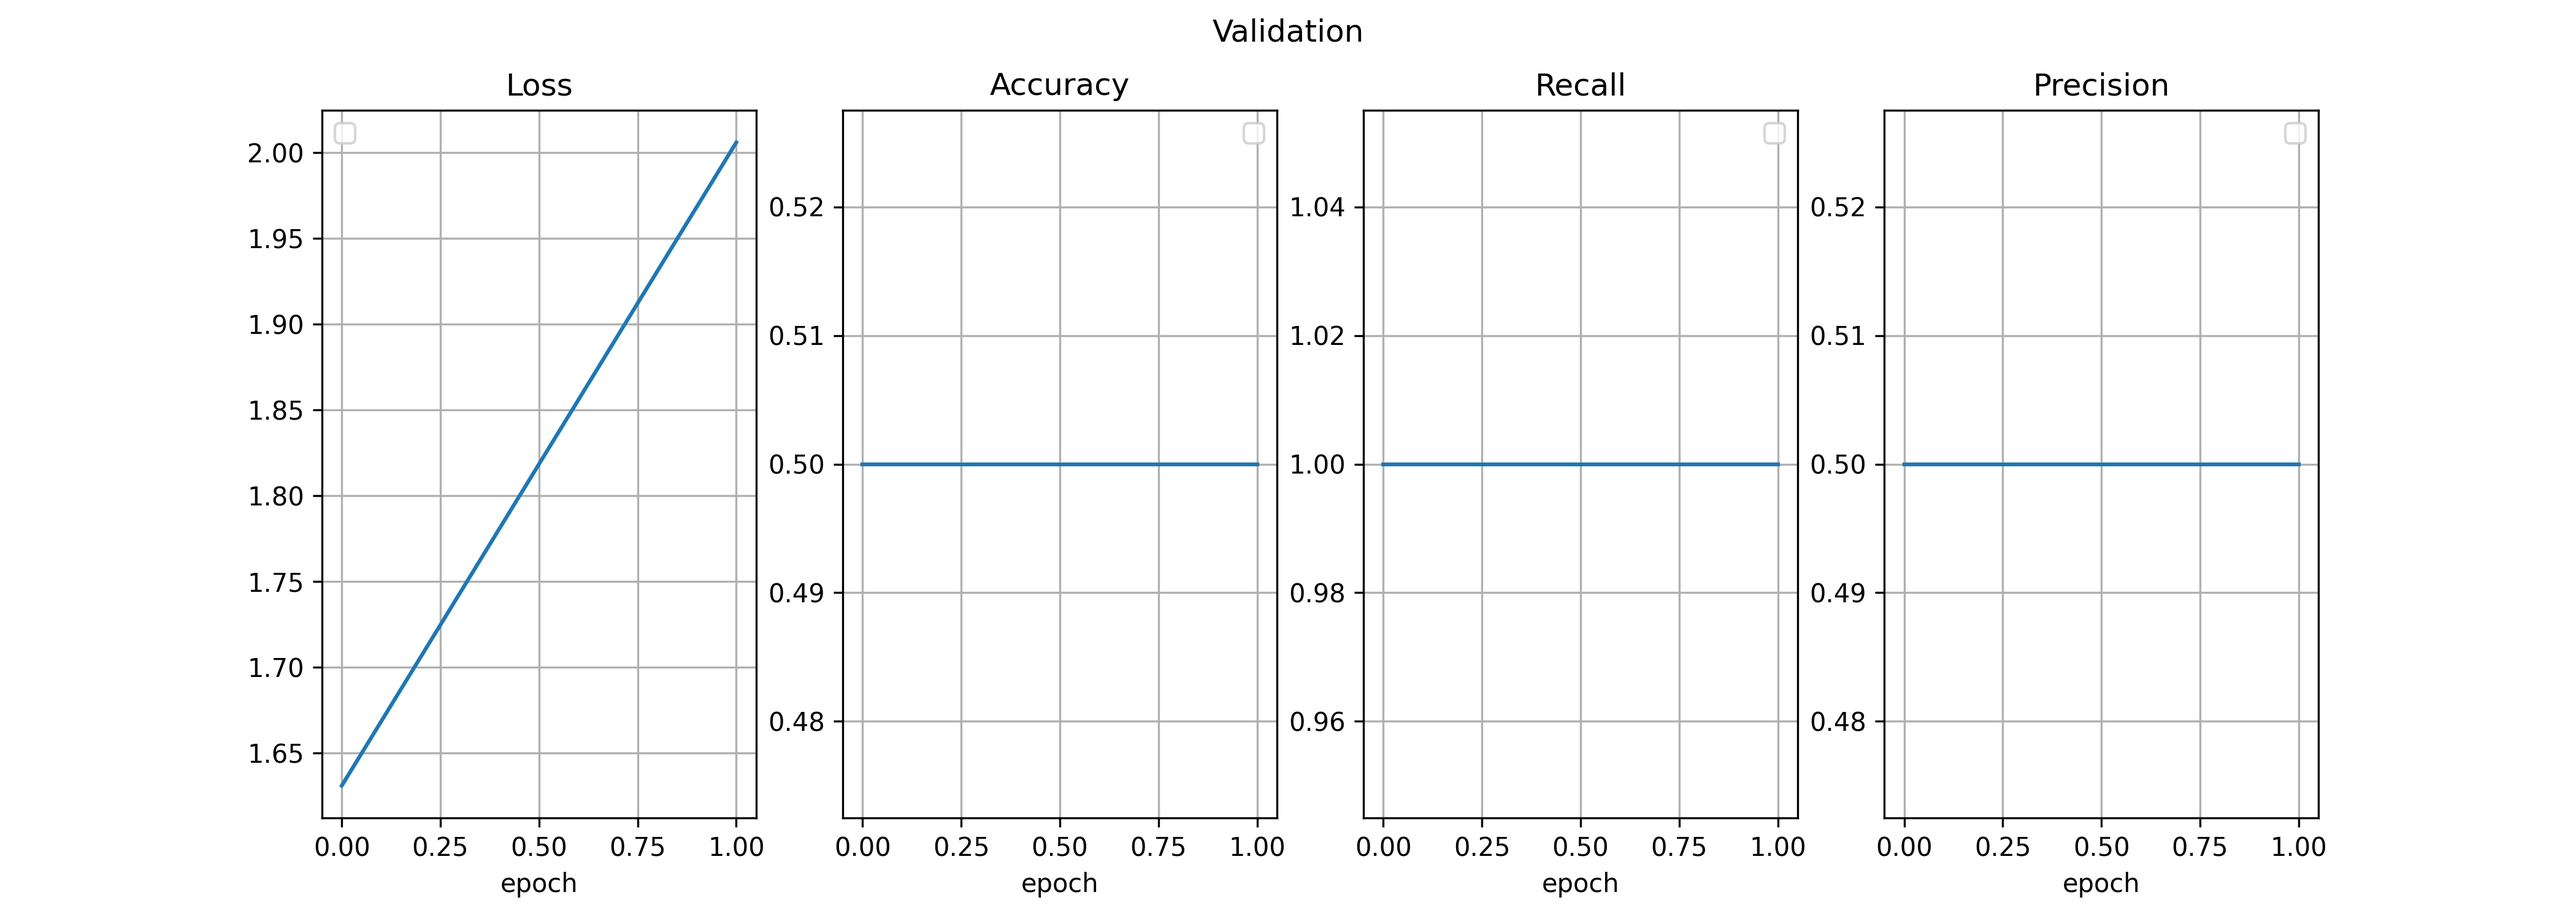
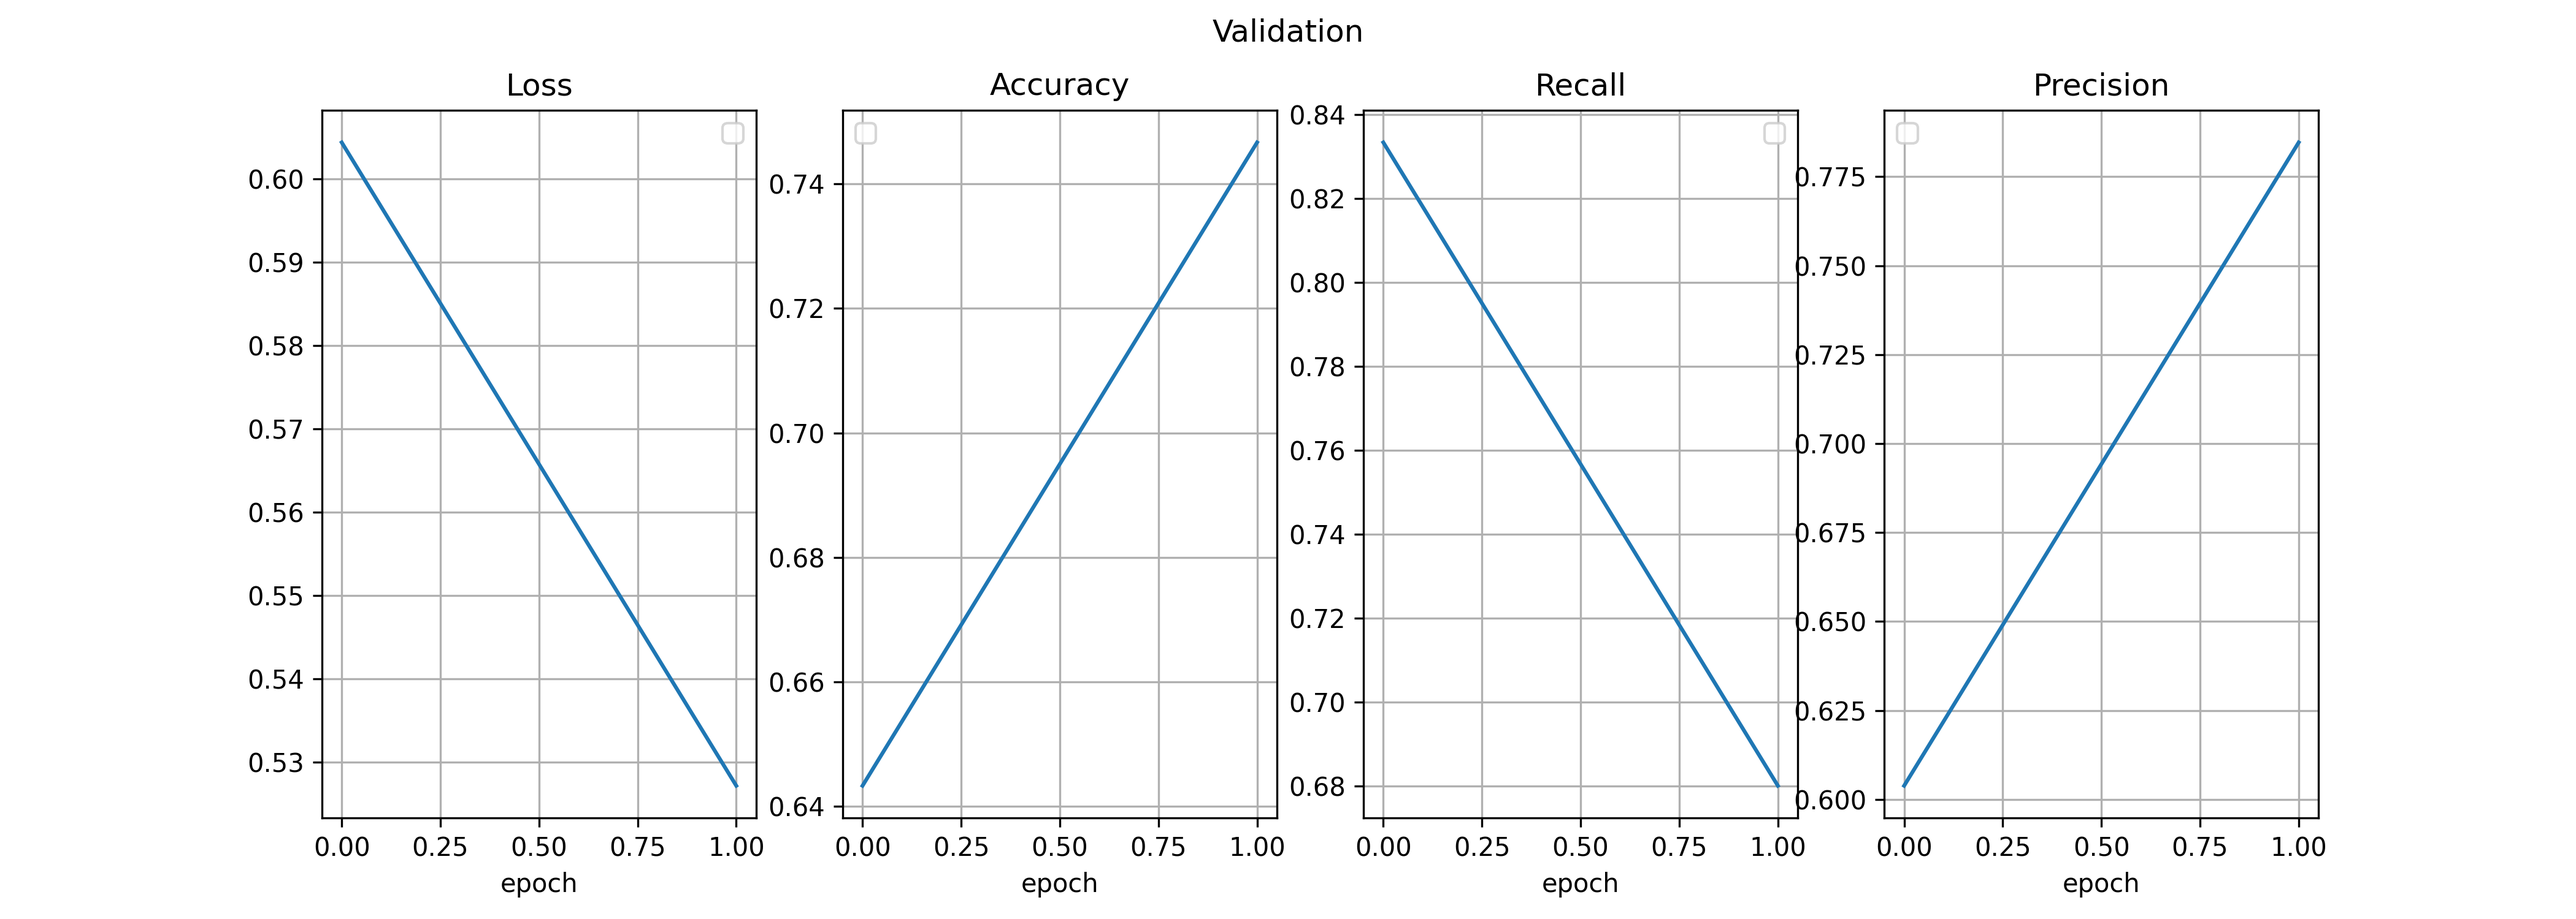
MobileNetV2

diff --git a/lab1/model.py b/lab1/model.py
@@ -3,81 +3,84 @@ import torch.nn as nn
 import torch.nn.init as init
 
 
+import torch
+import torch.nn as nn
+import torch.nn.functional as F
+
+class InvertedResidual(nn.Module):
+    def __init__(self, in_channels, out_channels, stride, expand_ratio):
+        super(InvertedResidual, self).__init__()
+        hidden_dim = in_channels * expand_ratio
+        self.use_residual = stride == 1 and in_channels == out_channels
+        
+        self.conv = nn.Sequential(
+            nn.Conv2d(in_channels, hidden_dim, kernel_size=1, bias=False),
+            nn.BatchNorm2d(hidden_dim),
+            nn.ReLU6(inplace=True),
+            
+            nn.Conv2d(hidden_dim, hidden_dim, kernel_size=3, stride=stride, padding=1, groups=hidden_dim, bias=False),
+            nn.BatchNorm2d(hidden_dim),
+            nn.ReLU6(inplace=True),
+
+            nn.Conv2d(hidden_dim, out_channels, kernel_size=1, bias=False),
+            nn.BatchNorm2d(out_channels),
+        )
+    
+    def forward(self, x):
+        if self.use_residual:
+            return x + self.conv(x)
+        else:
+            return self.conv(x)
+
 class MobNet(nn.Module):
-	def __init__(self, num_classes=1):
-		super(MobNet, self).__init__()
-		self.conv_3x3x3x32_s2 = nn.Conv2d(in_channels=3, out_channels=32, kernel_size=3, stride=2, padding=1)
+    def __init__(self, num_classes=1):
+        super(MobNet, self).__init__()
+        
+        # Конфигурация блоков: (in_channels, out_channels, stride, expand_ratio, repeat)
+        config = [
+            (32, 16, 1, 1, 1),
+            (16, 24, 2, 6, 2),
+            (24, 32, 2, 6, 3),
+            (32, 64, 2, 6, 4),
+            (64, 96, 1, 6, 3),
+            (96, 160, 2, 6, 3),
+            (160, 320, 1, 6, 1),
+        ]
+        
+        self.conv1 = nn.Sequential(
+            nn.Conv2d(3, 32, kernel_size=3, stride=2, padding=1, bias=False),
+            nn.BatchNorm2d(32),
+            nn.ReLU6(inplace=True)
+        )
+        
+        self.blocks = self._make_layers(config)
+        
+        self.conv2 = nn.Sequential(
+            nn.Conv2d(320, 1280, kernel_size=1, bias=False),
+            nn.BatchNorm2d(1280),
+            nn.ReLU6(inplace=True)
+        )
 
-		self.conv_1x1x64x128 = nn.Conv2d(in_channels=64, out_channels=128, kernel_size=1, stride=1)
-		self.conv_1x1x32x64 = nn.Conv2d(in_channels=32, out_channels=64, kernel_size=1, stride=1)
-		self.conv_1x1x128x128 = nn.Conv2d(in_channels=128, out_channels=128, kernel_size=1,stride=1)
-		self.conv_1x1x128x256 = nn.Conv2d(in_channels=128, out_channels=256, kernel_size=1, stride=1)
-		self.conv_1x1x256x256 = nn.Conv2d(in_channels=256, out_channels=256, kernel_size=1, stride=1)
-		self.conv_1x1x256x512 = nn.Conv2d(in_channels=256, out_channels=512, kernel_size=1, stride=1)
-		self.conv_1x1x512x512 = nn.Conv2d(in_channels=512, out_channels=512, kernel_size=1, stride=1)
-		self.conv_1x1x512x1024 = nn.Conv2d(in_channels=512, out_channels=1024, kernel_size=1, stride=1)
-		self.conv_1x1x1024x1024 = nn.Conv2d(in_channels=1024, out_channels=1024, kernel_size=1, stride=1)
+        self.avgpool = nn.AdaptiveAvgPool2d(1)
+        self.fc = nn.Linear(1280, num_classes)
 
-		self.conv_d3x3x32 = nn.Conv2d(in_channels=32, out_channels=32, kernel_size=3, stride=1, groups=32, padding=1)
-		self.conv_d3x3x64_s2 = nn.Conv2d(in_channels=64, out_channels=64, kernel_size=3, stride=2, groups=64, padding=1)
-		self.conv_d3x3x128 = nn.Conv2d(in_channels=128, out_channels=128, kernel_size=3, stride=1, groups=128, padding=1)
-		self.conv_d3x3x128_s2 = nn.Conv2d(in_channels=128, out_channels=128, kernel_size=3, stride=2, groups=128, padding=1)
-		self.conv_d3x3x256 = nn.Conv2d(in_channels=256, out_channels=256, kernel_size=3, stride=1, groups=256,padding=1)
-		self.conv_d3x3x256_s2 = nn.Conv2d(in_channels=256, out_channels=256, kernel_size=3, stride=2, groups=256, padding=1)
-		self.conv_d3x3x512 = nn.Conv2d(in_channels=512, out_channels=512, kernel_size=3, stride=1, groups=512, padding=1)
-		self.conv_d3x3x512_s2 = nn.Conv2d(in_channels=512, out_channels=512, kernel_size=3, stride=2, groups=512, padding=1)
-		self.conv_d3x3x1024 = nn.Conv2d(in_channels=1024, out_channels=1024, kernel_size=3, stride=1, groups=1024,padding=1)
+    def _make_layers(self, config):
+        layers = []
+        for in_ch, out_ch, stride, expand_ratio, repeat in config:
+            for i in range(repeat):
+                layers.append(InvertedResidual(
+                    in_channels=in_ch if i == 0 else out_ch, 
+                    out_channels=out_ch, 
+                    stride=stride if i == 0 else 1, 
+                    expand_ratio=expand_ratio
+                ))
+        return nn.Sequential(*layers)
 
-		self.avg_pool = nn.AvgPool2d(kernel_size=7)		
-		self.fc = nn.Linear(in_features=1024, out_features=1000)
-		self.final_fc = nn.Linear(in_features=1000, out_features=num_classes)
-		# functions
-		self.relu = nn.ReLU()
-		self.sigm = nn.Sigmoid()
-		self.bn_32 = nn.BatchNorm2d(num_features=32)
-		self.bn_64 = nn.BatchNorm2d(num_features=64)
-		self.bn_128 = nn.BatchNorm2d(num_features=128)
-		self.bn_256 = nn.BatchNorm2d(num_features=256)
-		self.bn_512 = nn.BatchNorm2d(num_features=512)
-		self.bn_1024 = nn.BatchNorm2d(num_features=1024)
-
-	def conv(self, x, conv, bn):
-		x = conv(x)
-		x = bn(x)
-		x = self.relu(x)
-		return x
-	
-	def depthwise(self, x, conv_d, conv_1x1, bn_d, bn_1x1):
-		x = conv_d(x)
-		x = bn_d(x)
-		x = self.relu(x)
-		x = conv_1x1(x)
-		x = bn_1x1(x)
-		x = self.relu(x)
-		return x 
-
-	def forward(self, x):
-		x = self.conv(x, self.conv_3x3x3x32_s2, self.bn_32) #1
-		x = self.depthwise(x, self.conv_d3x3x32, self.conv_1x1x32x64, self.bn_32, self.bn_64)  #2
-		x = self.depthwise(x, self.conv_d3x3x64_s2, self.conv_1x1x64x128, self.bn_64, self.bn_128) #3
-		x = self.depthwise(x, self.conv_d3x3x128, self.conv_1x1x128x128, self.bn_128, self.bn_128) #4
-		x = self.depthwise(x, self.conv_d3x3x128_s2, self.conv_1x1x128x256, self.bn_128, self.bn_256) #5
-		x = self.depthwise(x, self.conv_d3x3x256, self.conv_1x1x256x256, self.bn_256, self.bn_256) #6 
-		x = self.depthwise(x, self.conv_d3x3x256_s2, self.conv_1x1x256x512, self.bn_256, self.bn_512) #7 
-
-		x = self.depthwise(x, self.conv_d3x3x512, self.conv_1x1x512x512, self.bn_512, self.bn_512) #8 
-		x = self.depthwise(x, self.conv_d3x3x512, self.conv_1x1x512x512, self.bn_512, self.bn_512) #9 
-		x = self.depthwise(x, self.conv_d3x3x512, self.conv_1x1x512x512, self.bn_512, self.bn_512) #10 
-		x = self.depthwise(x, self.conv_d3x3x512, self.conv_1x1x512x512, self.bn_512, self.bn_512) #11 
-		x = self.depthwise(x, self.conv_d3x3x512, self.conv_1x1x512x512, self.bn_512, self.bn_512) #12 
-
-		x = self.depthwise(x, self.conv_d3x3x512_s2, self.conv_1x1x512x1024, self.bn_512, self.bn_1024) #13 
-		x = self.depthwise(x, self.conv_d3x3x1024, self.conv_1x1x1024x1024, self.bn_1024, self.bn_1024) #14 
-
-		x = self.avg_pool(x) #15
-		x = torch.flatten(x,1)
-		x = self.fc(x) 
-		x = self.relu(x)
-		x = self.final_fc(x)
-		x = self.sigm(x)
-		return x
+    def forward(self, x):
+        x = self.conv1(x)
+        x = self.blocks(x)
+        x = self.conv2(x)
+        x = self.avgpool(x)
+        x = torch.flatten(x, 1)
+        x = self.fc(x)
+        return x

diff --git a/lab1/train.py b/lab1/train.py
@@ -41,9 +41,9 @@ def train(model, device, tloader, vloader, epoch=10, validation=1):
  					  'precision':  torchmetrics.classification.BinaryPrecision(threshold=0.5).to(device=device),
 					  'recall': torchmetrics.classification.BinaryRecall(threshold=0.5).to(device=device)}
 	
-	loss_func = nn.BCELoss()
-#	opt = torch.optim.Adam(model.parameters(), lr=0.001, betas=(0.9, 0.999), eps=1e-8) 
-	opt = torch.optim.SGD(params=model.parameters(), lr=0.01)
+	loss_func = nn.BCEWithLogitsLoss()
+	opt = torch.optim.Adam(model.parameters(), lr=0.001, betas=(0.9, 0.999), eps=1e-6) 
+#	opt = torch.optim.SGD(params=model.parameters(), lr=0.01)
 
 	current_epoch = 0
 	min_loss = 1e+6
@@ -63,9 +63,10 @@ def train(model, device, tloader, vloader, epoch=10, validation=1):
 				loss.backward()
 				opt.step()
 
-				train_metrics['accuracy'].update(output, label[:,None])
-				train_metrics['recall'].update(output, label[:,None])
-				train_metrics['precision'].update(output, label[:,None])
+				pred = torch.sigmoid(output)
+				train_metrics['accuracy'].update(pred, label[:,None])
+				train_metrics['recall'].update(pred, label[:,None])
+				train_metrics['precision'].update(pred, label[:,None])
 				running_loss += loss.item()
 
 			train_results['loss'].append(running_loss / len(tloader))
@@ -92,9 +93,10 @@ def train(model, device, tloader, vloader, epoch=10, validation=1):
 				output = model(data)
 				loss = loss_func(output, label[:,None])
 
-				valid_metrics['accuracy'].update(output, label[:,None])
-				valid_metrics['recall'].update(output, label[:,None])
-				valid_metrics['precision'].update(output, label[:,None])
+				pred = torch.sigmoid(output)
+				valid_metrics['accuracy'].update(pred, label[:,None])
+				valid_metrics['recall'].update(pred, label[:,None])
+				valid_metrics['precision'].update(pred, label[:,None])
 				
 				running_loss += loss.item()
 
